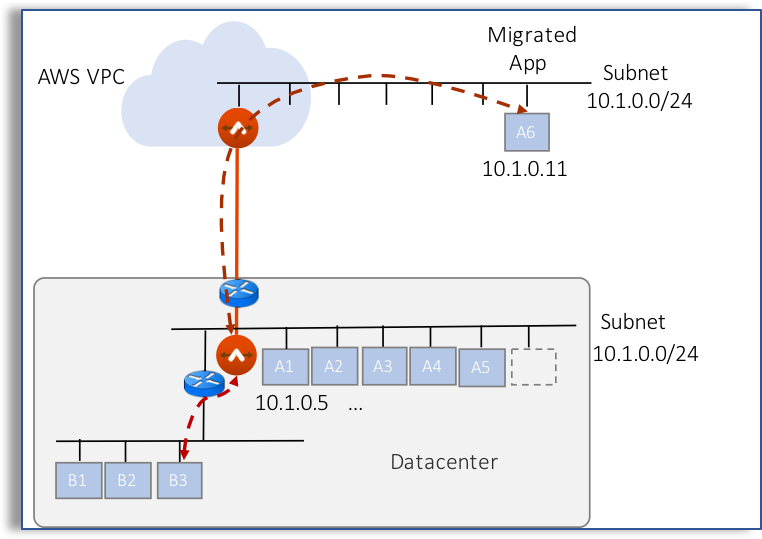
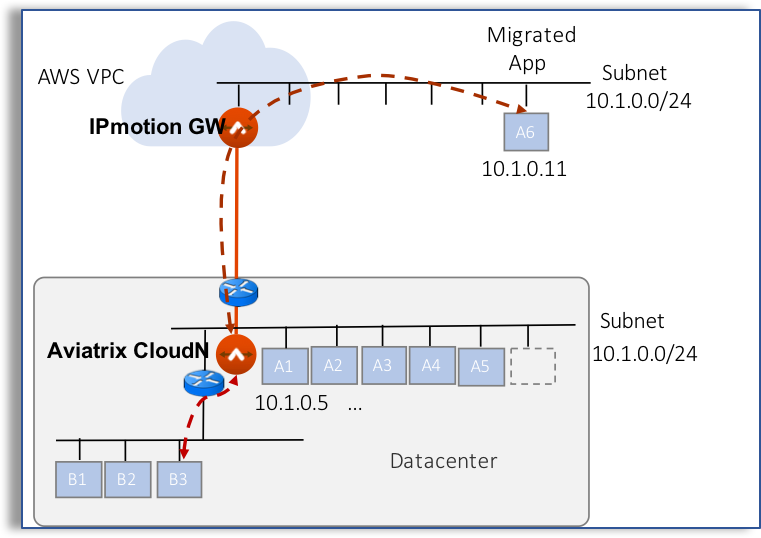
update ipmotion

diff --git a/HowTos/ipmotion.rst b/HowTos/ipmotion.rst
@@ -4,7 +4,7 @@
 
 
 =================================
-IPmotion Setup Instructions
+IP Motion Setup Instructions
 =================================
 
 Aviatrix IPmotion is a technology that connects the same two subnets between on-prem and in the VPC. The technology is useful when migration an on-prem VM to public cloud while preserving its IP address. It can also be used
@@ -19,14 +19,15 @@ as if it still resides on-prem.
 Prerequisites
 --------------
 
- - To implement IPmotion, you must first deploy Aviatrix virtual appliance CloudN on a subnet where VM migrations take place.  Read `this document <http://docs.aviatrix.com/StartUpGuides/CloudN-Startup-Guide.html>`_ on how to deploy the virtual appliance. 
+ 1. Identify a subnet where you want to migrate VM. For example, this subnet is 10.1.0.0/24.
+ #.  Create a AWS VPC with a public subnet that has identical CIDR as the on-prem subnet where migration is to take place. For example, create a VPC 10.1.0.0/16 with a public subnet 10.1.0.0/24.  
 
- - Once the virtual appliance is deployed, go through on-boarding process and create an AWS account. 
+ #. Deploy Aviatrix virtual appliance CloudN on this subnet.  Read `this document <http://docs.aviatrix.com/StartUpGuides/CloudN-Startup-Guide.html>`_ on how to deploy the virtual appliance. 
 
- - Create a AWS VPC with a public subnet that has identical CIDR as the on-prem subnet where CloudN is deployed. 
+ #. Once the virtual appliance is deployed, go through on-boarding process and create an AWS account. 
 
 
-Go to IPmotion at the navigation bar and 
+Go to IPmotion at the navigation bar of the CloudN controller console and 
 follow the steps below to setup IPmotion.  
 
 1. Specify on-Prem IP Address List
@@ -48,8 +49,8 @@ all running VMs to cloud, then specify this range for Step 1 as below.
 
 Note, the format must have a "-" in the list even when there is a single IP address. 
 
-Note the larger this list is, the larger gateway instance size needs to be. 
-The reason is that gateway needs to allocate private IP addresses from AWS
+Note the larger this list is, the larger IPmotion gateway instance size needs to be in the cloud (AWS). 
+The reason is that IPmotion gateway needs to allocate private IP addresses from AWS
 for any on-prem VMs. 
 
 You can optimize the list by making sure only the running VMs are being specified. For the above example, if 172.16.1.11 is an IP address not assigned to any VM, you should skip this address and specify a multiple range separating by a comma: 172.16.1.10-172.16.1.10,172.16.1.12-172.16.1.20. 
@@ -59,7 +60,7 @@ You can optimize the list by making sure only the running VMs are being specifie
       172.16.1.10-172.16.1.10,172.16.1.12-172.16.1.20
 
 
-Currently the largest number of VMs that a CloudN can handle on a subnet is 232 which requires a c4.4xlarge gateway instance size. This number can be expanded in the future release. 
+Currently the largest number of VMs that a CloudN can handle on a subnet is 232 which requires a c4.4xlarge IPmotion gateway instance size. This number of VMs can be expanded in the future release. 
 
 (You can further optimize the list for the on-prem part by specifying only the 
 dependent VMs. 
@@ -75,12 +76,12 @@ then you should enter
    172.16.1.10-172.16.1.10,172.16.1.15-172.16.1.20,172.16.1.50-172.16.1.70
 
 
-2. Reserve Gateway IP Address List
--------------------------------------
+2. Reserve IPmotion Gateway IP Address List
+--------------------------------------------
 
 This field is about specifying 10 IP addresses that are not being used by 
-any running VMs and reserve these addresses for Aviatrix gateway. For example, 
-if you specify 172.16.1.100-172.16.1.110 as gateway reserved IP address, 
+any running VMs and reserve these addresses for Aviatrix IPmotion gateway. For example, 
+if you specify 172.16.1.100-172.16.1.110 as IPmotion gateway reserved IP address, 
 it means that these range of IP addresses are not currently used by any VM on 
 the subnet, they are reserved by Aviatrix during migration phase. 
 
@@ -96,7 +97,7 @@ IPmotion method will not work.
 ----------------------------
 
 This step launches an Aviatrix IPmotion gateway and builds an encrypted IPSEC tunnel between the two subnets. 
-Note the gateway size reflects how many on-prem VMs can be supported, as 
+Note the IPmotion gateway size reflects how many on-prem VMs can be supported, as 
 the table shown below.
 
 ===============================    ================================================================================
@@ -124,7 +125,7 @@ c4.8xlarge                         232
 4. IPmotion Move
 ------------------
 
-This step consists of two parts: staging and commit. 
+This step consists of two parts: Staging and Commit. 
 
 Staging
 ^^^^^^^^
